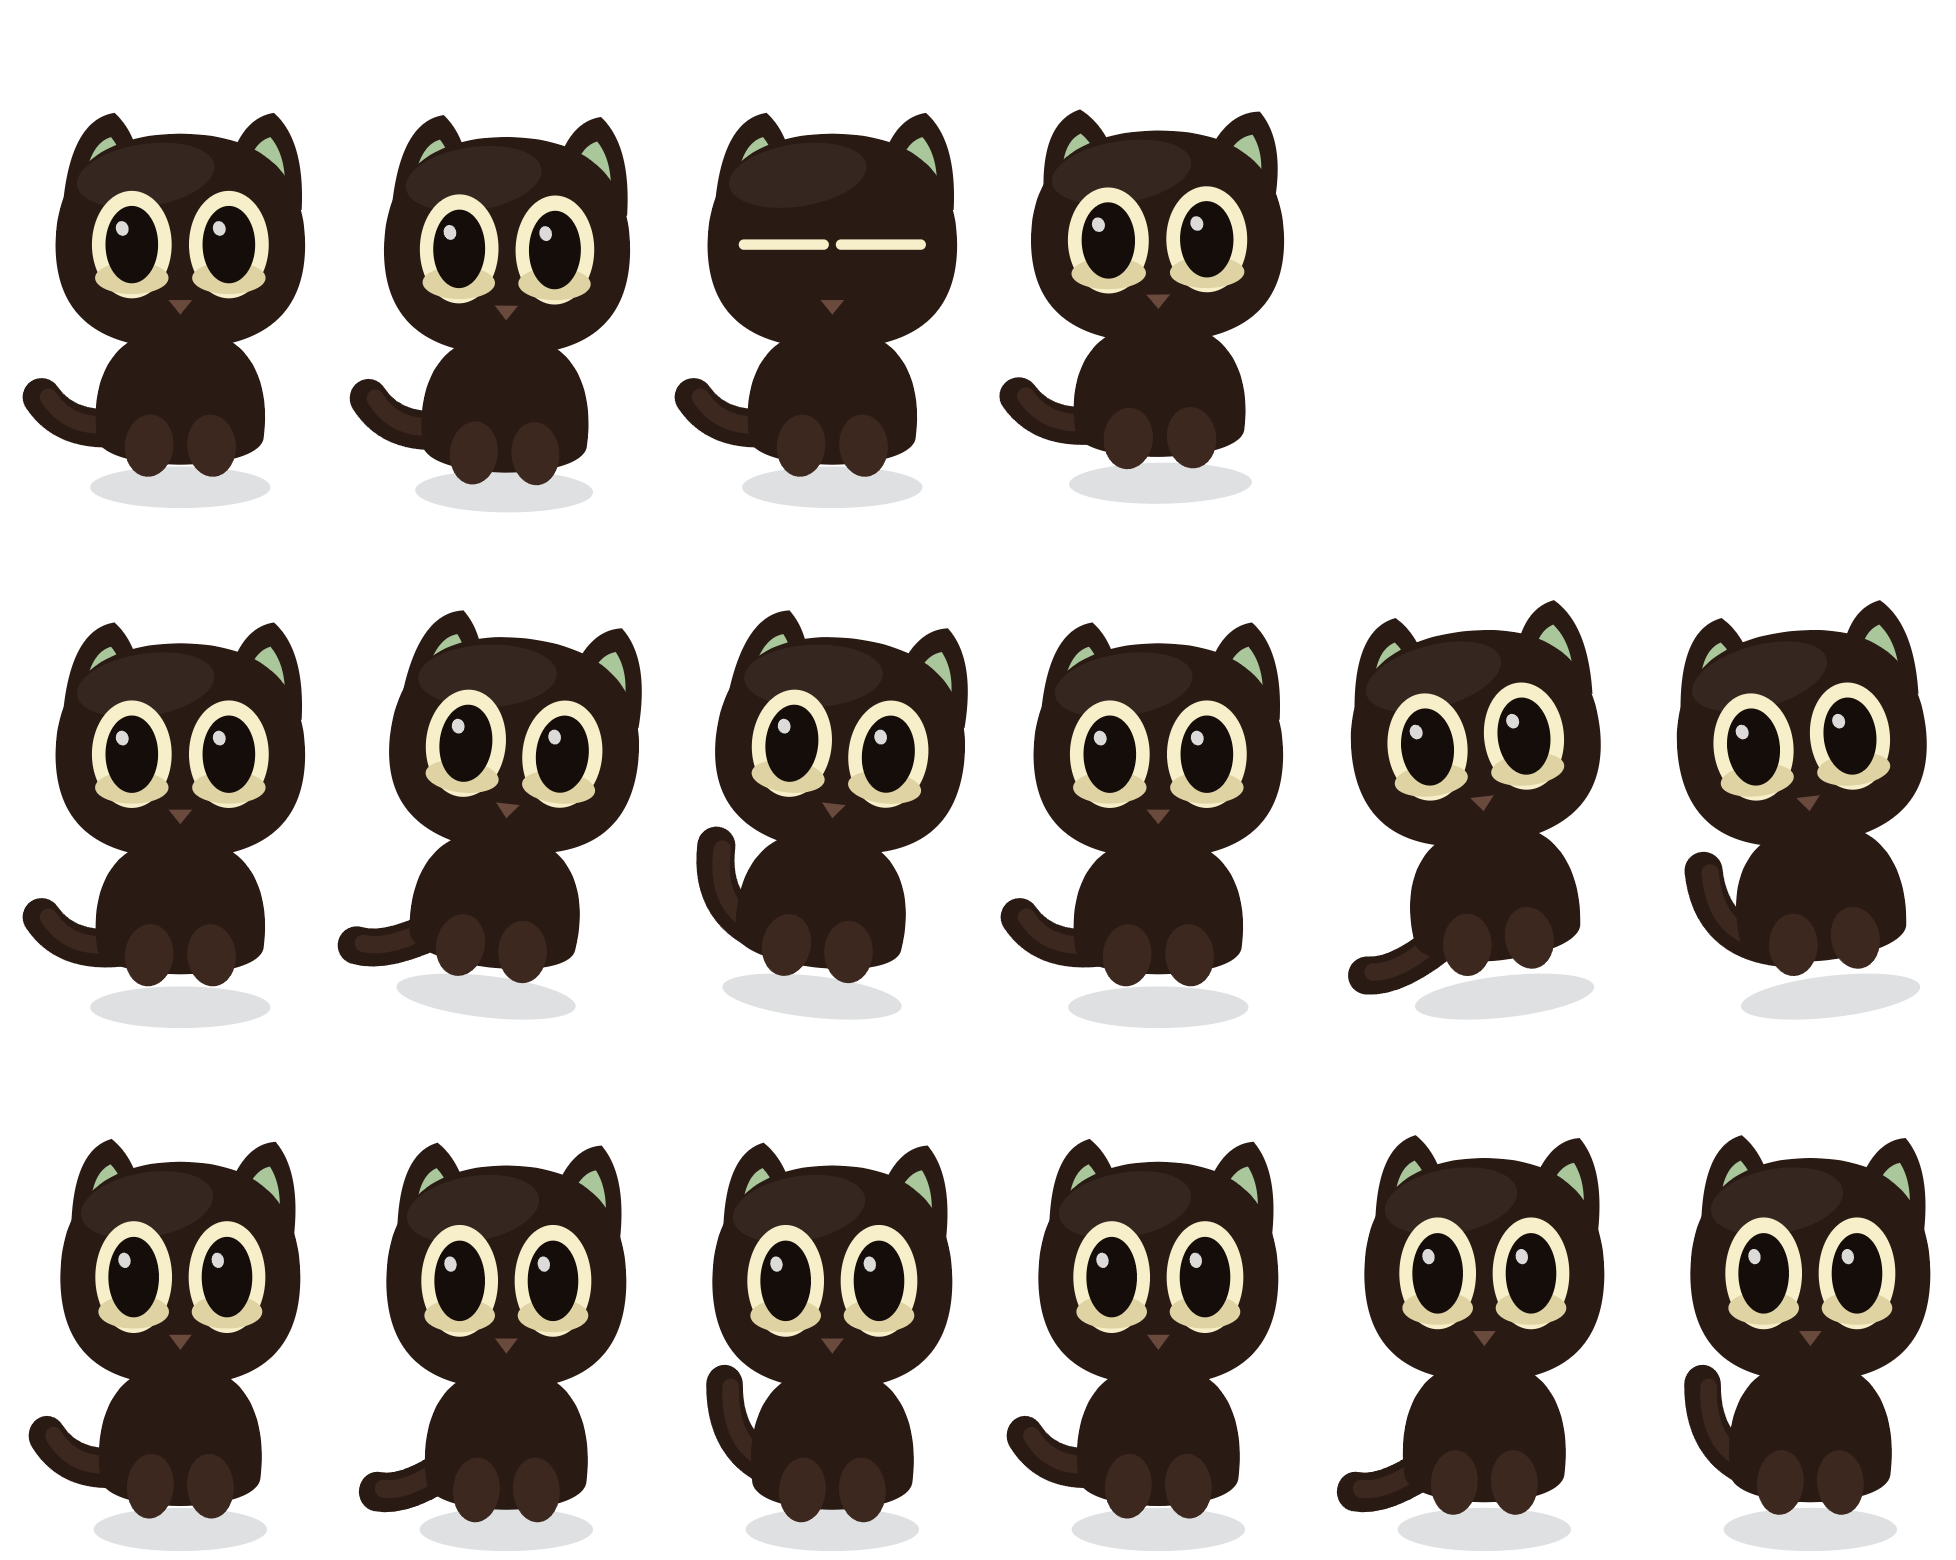
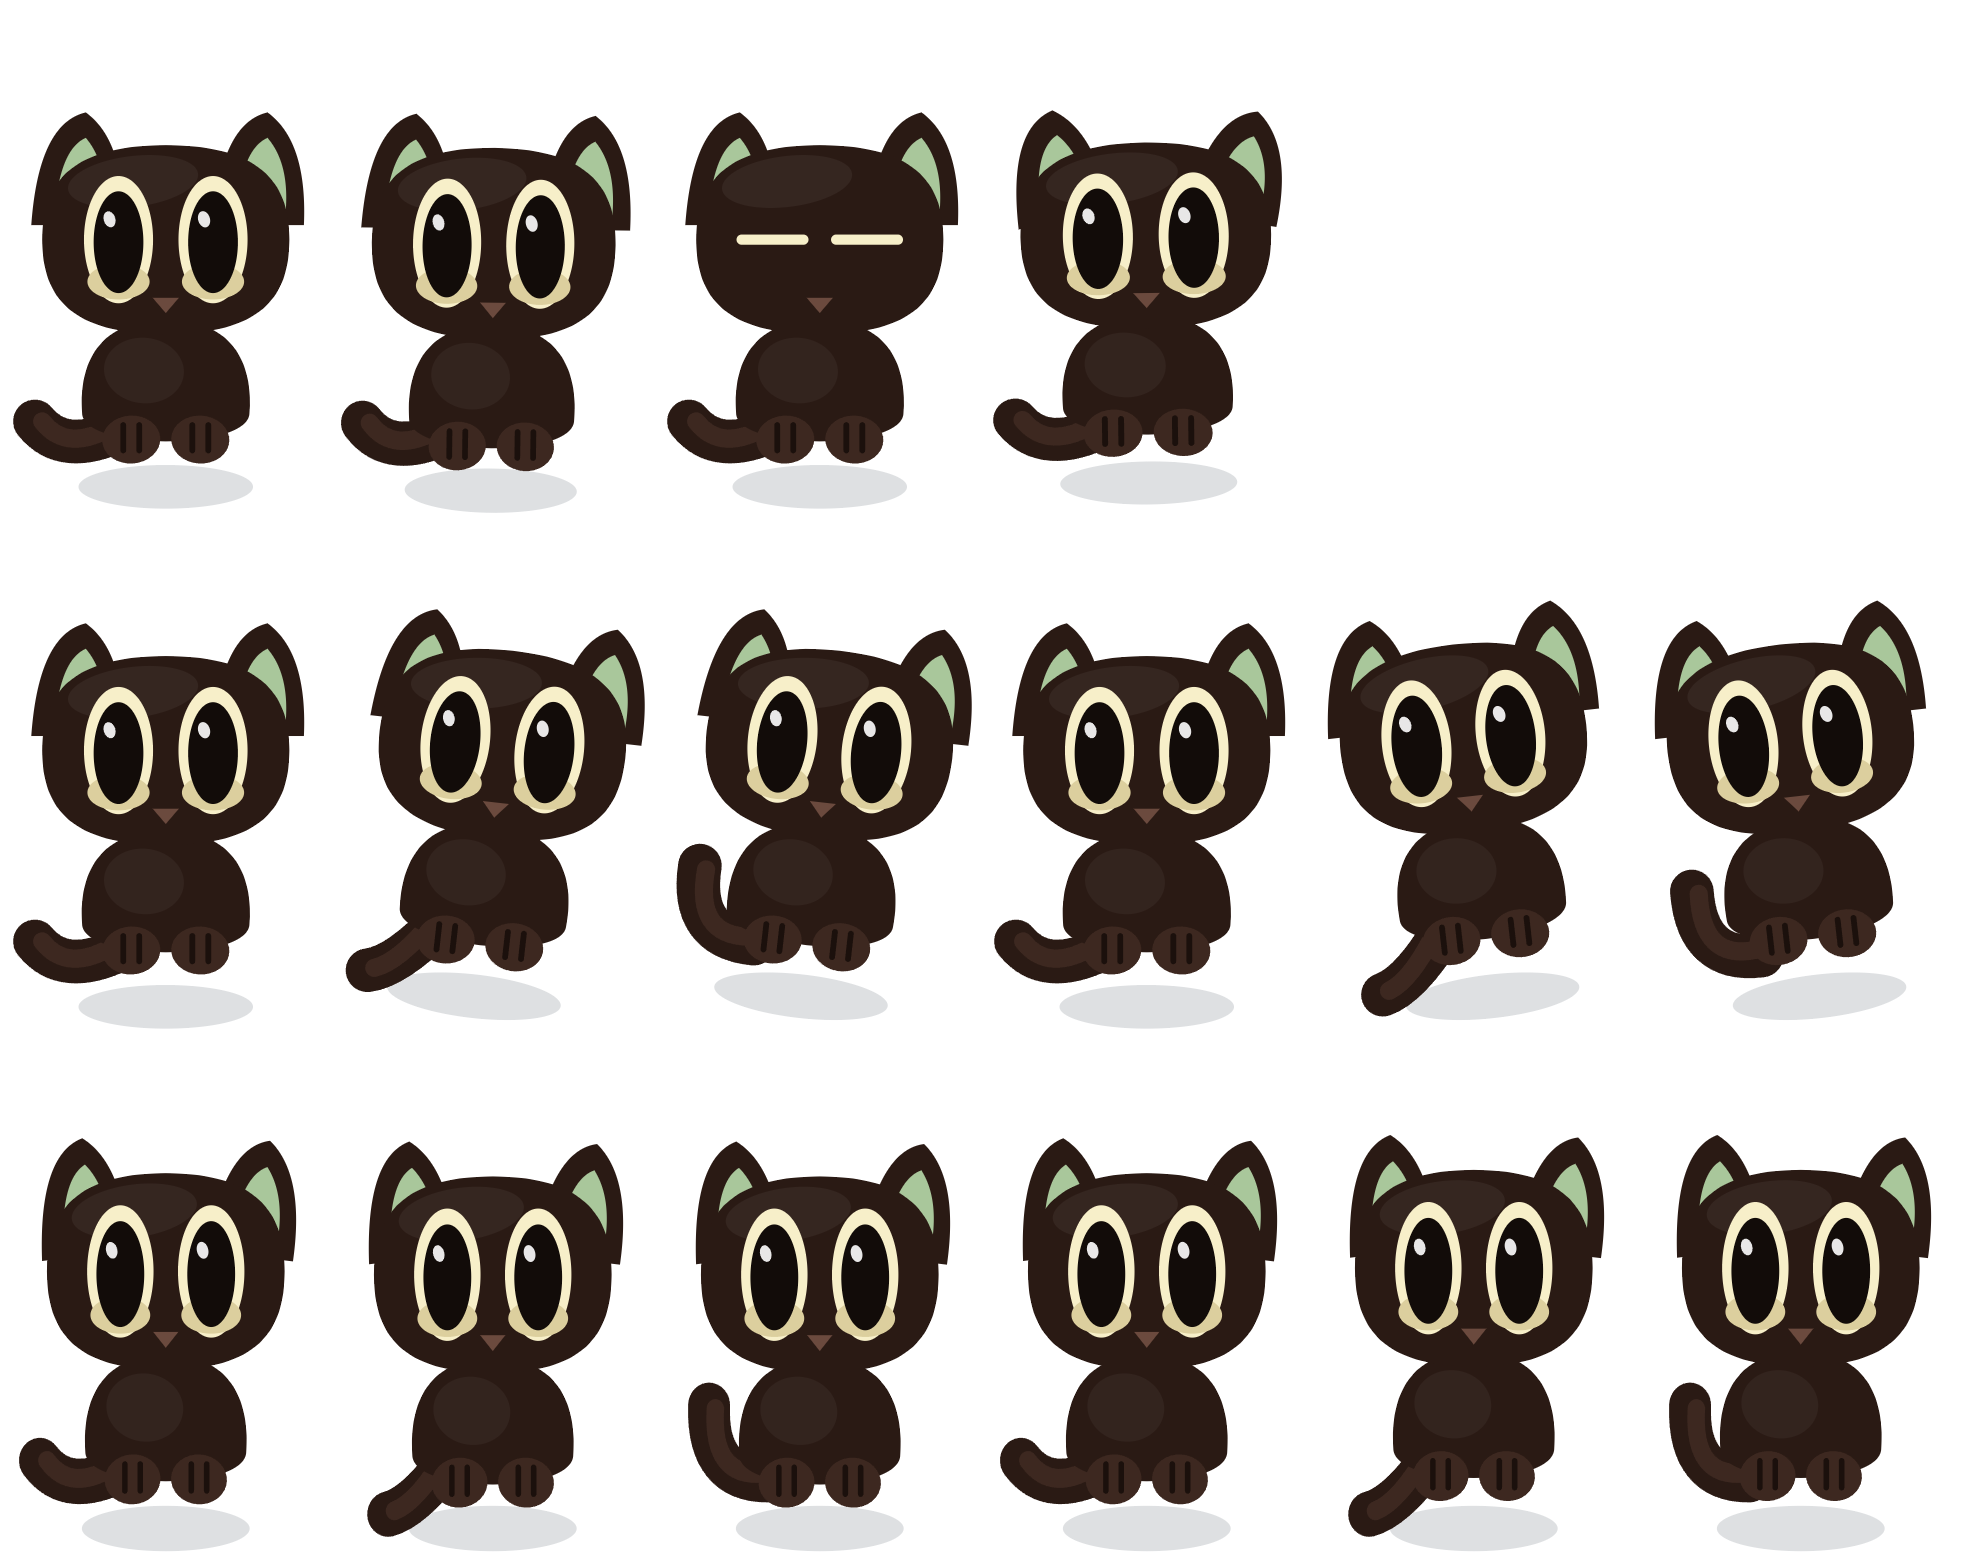
大眼黑猫按参考图比例重画（1:1 复刻）
之前那版头画窄了、眼睛画小了、身体太高、也没有蹲姿的前脚。
这次照着参考图重新量了比例：

- 头很宽，宽高比约 1.3，占整体高度约 58%
- 眼睛极大：每只约占头宽 25%、高约头高的 70%（细长椭圆），
  瞳孔塞满大半个眼圈，高光在左上
- 身体缩短成蹲姿，底部两只前脚并排，各带两道脚趾缝
- 尾巴从身后向左下弯出去
- 耳朵移到头顶两侧、内耳灰绿

三个动作保留：摇尾巴（连续）、眨眼（待机第 4/5 帧）、
动耳朵（待机第 6/7 帧）。

diff --git a/build/make-skins.js b/build/make-skins.js
@@ -1814,130 +1814,143 @@ function drawBanana(ctx, q, p, kind) {
 }
 
 /* ============================================================ ⑬ 大眼黑猫 */
-/* 照参考图 1:1 矢量重绘。三种动作：摇尾巴（连续）、眨眼（待机中段两帧）、
-   动耳朵（待机末两帧）。帧数按 kind 写死，方便用帧序号精确控制眨眼时机。 */
+/* 照参考图 1:1 复刻。按图重新量了比例：
+   头很宽（宽高比约 1.3）、占整体高度约 58%；
+   眼睛极大（每只约占头宽 25%、高约头高的 70%，细长椭圆，瞳孔塞满大半个）；
+   身体短、是蹲着的，底部两只前脚并排。
+   三种动作：摇尾巴（连续）、眨眼（待机中段两帧）、动耳朵（待机末两帧）。 */
 function drawCat(ctx, q, p, kind) {
   const FUR = '#2A1A14';
   const FUR_L = '#3D2820';
+  const FUR_D = '#1B100C';
   const CREAM = '#F7EFC9';
-  const CREAM_D = '#DFD3A4';
+  const CREAM_D = '#DCCF9E';
   const INNER = '#A9C79B';
-  const PUPIL = '#140D0A';
+  const PUPIL = '#120C09';
 
-  const n = kind === 'idle' ? 8 : 6;          // 各行的帧数（与下面 SKINS 配置一致）
+  const n = kind === 'idle' ? 8 : 6;
   const idx = Math.round(p * n) % n;
   const t = p * TAU;
 
-  /* --- 眨眼：待机第 4、5 帧 --- */
+  /* 眨眼 */
   let blink = 0;
-  if (kind === 'idle' && (idx === 4 || idx === 5)) blink = idx === 5 ? 0.75 : 1;
+  if (kind === 'idle' && (idx === 4 || idx === 5)) blink = idx === 5 ? 0.72 : 1;
   const eyeOpen = 1 - blink;
 
-  /* --- 动耳朵：待机第 6、7 帧 --- */
+  /* 动耳朵 */
   let earTw = 0;
-  if (kind === 'idle' && idx === 6) earTw = 0.16;
-  if (kind === 'idle' && idx === 7) earTw = -0.13;
-  if (kind === 'cheer') earTw = 0.1;
+  if (kind === 'idle' && idx === 6) earTw = 0.17;
+  if (kind === 'idle' && idx === 7) earTw = -0.14;
+  if (kind === 'cheer') earTw = 0.11;
 
-  /* --- 摇尾巴：一直摆，跳舞时更快 --- */
-  const wag = Math.sin(t * (kind === 'idle' ? 2 : 4)) * (kind === 'idle' ? 0.5 : 0.95);
-  const bob = Math.sin(t) * 1.2 + (kind === 'dance' ? -3 : 0);
+  /* 摇尾巴 */
+  const wag = Math.sin(t * (kind === 'idle' ? 2 : 4)) * (kind === 'idle' ? 0.55 : 0.95);
+  const bob = Math.sin(t) * 1 + (kind === 'dance' ? -2.5 : 0);
 
-  shadow(ctx, 52, 26);
+  shadow(ctx, 46, 24);
 
-  /* ---------- 尾巴（在身后） ---------- */
+  /* ---------- 尾巴（身后，向左下弯出去） ---------- */
   ctx.save();
-  ctx.translate(-18, 34);
-  ctx.rotate(wag * 0.5);
-  ctx.strokeStyle = FUR; ctx.lineWidth = 11; ctx.lineCap = 'round';
+  ctx.translate(-20, 26);
+  ctx.rotate(wag * 0.55);
+  ctx.strokeStyle = FUR; ctx.lineWidth = 12; ctx.lineCap = 'round';
   ctx.beginPath();
-  ctx.moveTo(6, 0);
-  ctx.quadraticCurveTo(-14, 4, -22, -8 - wag * 8);
+  ctx.moveTo(8, 4);
+  ctx.quadraticCurveTo(-8, 12, -16, 2 - wag * 10);
   ctx.stroke();
   ctx.strokeStyle = FUR_L; ctx.lineWidth = 5;
   ctx.beginPath();
-  ctx.moveTo(4, -1);
-  ctx.quadraticCurveTo(-13, 3, -20, -8 - wag * 8);
+  ctx.moveTo(6, 3);
+  ctx.quadraticCurveTo(-7, 11, -14, 2 - wag * 10);
   ctx.stroke();
   ctx.restore();
 
   ctx.save();
   ctx.translate(0, bob);
 
-  /* ---------- 身体（坐姿） ---------- */
+  /* ---------- 身体：短，蹲着 ---------- */
   ctx.fillStyle = FUR;
   ctx.beginPath();
-  ctx.moveTo(0, 6);
-  ctx.bezierCurveTo(22, 6, 26, 24, 24, 38);
-  ctx.bezierCurveTo(22, 48, -22, 48, -24, 38);
-  ctx.bezierCurveTo(-26, 24, -22, 6, 0, 6);
+  ctx.moveTo(0, 0);
+  ctx.bezierCurveTo(20, 0, 24, 14, 23, 26);
+  ctx.bezierCurveTo(22, 36, -22, 36, -23, 26);
+  ctx.bezierCurveTo(-24, 14, -20, 0, 0, 0);
   ctx.closePath(); ctx.fill();
-  /* 前腿 */
-  ctx.fillStyle = FUR_L;
-  ctx.beginPath(); ctx.ellipse(-9, 40, 7, 9, 0.1, 0, TAU); ctx.fill();
-  ctx.beginPath(); ctx.ellipse(9, 40, 7, 9, -0.1, 0, TAU); ctx.fill();
+  /* 胸口一点亮面 */
+  ctx.fillStyle = 'rgba(255,255,255,.045)';
+  ctx.beginPath(); ctx.ellipse(-6, 14, 11, 9, 0.1, 0, TAU); ctx.fill();
 
-  /* ---------- 耳朵（先画，压在头下面） ---------- */
+  /* 两只前脚：并排蹲在身前 */
+  [-1, 1].forEach(function (sg) {
+    ctx.fillStyle = FUR_L;
+    ctx.beginPath();
+    ctx.ellipse(sg * 9.5, 33, 8, 6.6, sg * 0.06, 0, TAU); ctx.fill();
+    /* 脚趾缝 */
+    ctx.strokeStyle = FUR_D; ctx.lineWidth = 1.6; ctx.lineCap = 'round';
+    ctx.beginPath();
+    ctx.moveTo(sg * 9.5 - 2.2, 29); ctx.lineTo(sg * 9.5 - 2.2, 36);
+    ctx.moveTo(sg * 9.5 + 2.2, 29); ctx.lineTo(sg * 9.5 + 2.2, 36);
+    ctx.stroke();
+  });
+
+  /* ---------- 耳朵（先画，压在头下） ---------- */
   [-1, 1].forEach(function (sg) {
     ctx.save();
-    ctx.translate(sg * 23, -40);
+    ctx.translate(sg * 25, -40);
     ctx.rotate(sg * earTw);
     ctx.fillStyle = FUR;
     ctx.beginPath();
-    ctx.moveTo(-11, 12);
-    ctx.quadraticCurveTo(-9, -14, 4, -16);
-    ctx.quadraticCurveTo(13, -8, 12, 12);
+    ctx.moveTo(-12, 14);
+    ctx.quadraticCurveTo(-10, -14, 3, -17);
+    ctx.quadraticCurveTo(14, -9, 13, 14);
     ctx.closePath(); ctx.fill();
-    /* 内侧灰绿 */
     ctx.fillStyle = INNER;
     ctx.beginPath();
-    ctx.moveTo(-5, 8);
-    ctx.quadraticCurveTo(-4, -7, 3, -9);
-    ctx.quadraticCurveTo(8, -3, 7, 8);
+    ctx.moveTo(-5.5, 10);
+    ctx.quadraticCurveTo(-4, -7, 3, -10);
+    ctx.quadraticCurveTo(9, -3, 8, 10);
     ctx.closePath(); ctx.fill();
     ctx.restore();
   });
 
-  /* ---------- 头：宽圆 ---------- */
+  /* ---------- 头：很宽（宽高比约 1.3） ---------- */
   ctx.fillStyle = FUR;
   ctx.beginPath();
-  ctx.moveTo(0, -50);
-  ctx.bezierCurveTo(26, -50, 36, -36, 36, -18);
-  ctx.bezierCurveTo(36, 2, 24, 12, 0, 12);
-  ctx.bezierCurveTo(-24, 12, -36, 2, -36, -18);
-  ctx.bezierCurveTo(-36, -36, -26, -50, 0, -50);
+  ctx.moveTo(0, -48);
+  ctx.bezierCurveTo(28, -48, 34, -36, 34, -22);
+  ctx.bezierCurveTo(34, -6, 26, 4, 0, 4);
+  ctx.bezierCurveTo(-26, 4, -34, -6, -34, -22);
+  ctx.bezierCurveTo(-34, -36, -28, -48, 0, -48);
   ctx.closePath(); ctx.fill();
-  /* 头顶一点亮面，避免整块死黑 */
   ctx.fillStyle = 'rgba(255,255,255,.05)';
-  ctx.beginPath(); ctx.ellipse(-10, -38, 20, 9, -0.15, 0, TAU); ctx.fill();
+  ctx.beginPath(); ctx.ellipse(-9, -38, 18, 7, -0.12, 0, TAU); ctx.fill();
 
-  /* ---------- 眼睛：米黄大眼圈 + 大黑瞳孔 ---------- */
+  /* ---------- 眼睛：极大、细长，瞳孔塞满大半个 ---------- */
   [-1, 1].forEach(function (sg) {
-    const ex = sg * 14, ey = -18;
-    const rx = 11.5, ry = 15.5 * eyeOpen;
+    const ex = sg * 13, ey = -22;
+    const rx = 9.5, ry = 17.5 * eyeOpen;
     if (ry < 1.6) {
-      /* 眨到底：画一条闭合的线 */
-      ctx.strokeStyle = CREAM; ctx.lineWidth = 3; ctx.lineCap = 'round';
-      ctx.beginPath(); ctx.moveTo(ex - rx, ey); ctx.lineTo(ex + rx, ey); ctx.stroke();
+      ctx.strokeStyle = CREAM; ctx.lineWidth = 2.8; ctx.lineCap = 'round';
+      ctx.beginPath(); ctx.moveTo(ex - rx + 1, ey); ctx.lineTo(ex + rx - 1, ey); ctx.stroke();
       return;
     }
-    /* 眼圈 */
+    /* 米黄眼圈 */
     ctx.fillStyle = CREAM;
     ctx.beginPath(); ctx.ellipse(ex, ey, rx, ry, 0, 0, TAU); ctx.fill();
     ctx.fillStyle = CREAM_D;
-    ctx.beginPath(); ctx.ellipse(ex, ey + ry * 0.62, rx * 0.92, ry * 0.3, 0, 0, TAU); ctx.fill();
-    /* 瞳孔：占满大半个眼圈 */
+    ctx.beginPath(); ctx.ellipse(ex, ey + ry * 0.66, rx * 0.9, ry * 0.28, 0, 0, TAU); ctx.fill();
+    /* 大黑瞳孔 */
     ctx.fillStyle = PUPIL;
-    ctx.beginPath(); ctx.ellipse(ex, ey, rx * 0.66, ry * 0.72, 0, 0, TAU); ctx.fill();
+    ctx.beginPath(); ctx.ellipse(ex, ey + ry * 0.04, rx * 0.72, ry * 0.8, 0, 0, TAU); ctx.fill();
     /* 高光 */
-    ctx.fillStyle = 'rgba(255,255,255,.85)';
-    ctx.beginPath(); ctx.ellipse(ex - rx * 0.24, ey - ry * 0.3, rx * 0.16, ry * 0.14, -0.3, 0, TAU); ctx.fill();
+    ctx.fillStyle = 'rgba(255,255,255,.9)';
+    ctx.beginPath(); ctx.ellipse(ex - rx * 0.26, ey - ry * 0.32, rx * 0.17, ry * 0.13, -0.3, 0, TAU); ctx.fill();
   });
 
-  /* ---------- 鼻子（很小一点） ---------- */
+  /* ---------- 鼻子：很小一点 ---------- */
   ctx.fillStyle = '#6B4A3E';
   ctx.beginPath();
-  ctx.moveTo(-3.4, -2); ctx.lineTo(3.4, -2); ctx.lineTo(0, 2.2);
+  ctx.moveTo(-3.6, -6); ctx.lineTo(3.6, -6); ctx.lineTo(0, -1.8);
   ctx.closePath(); ctx.fill();
 
   ctx.restore();
